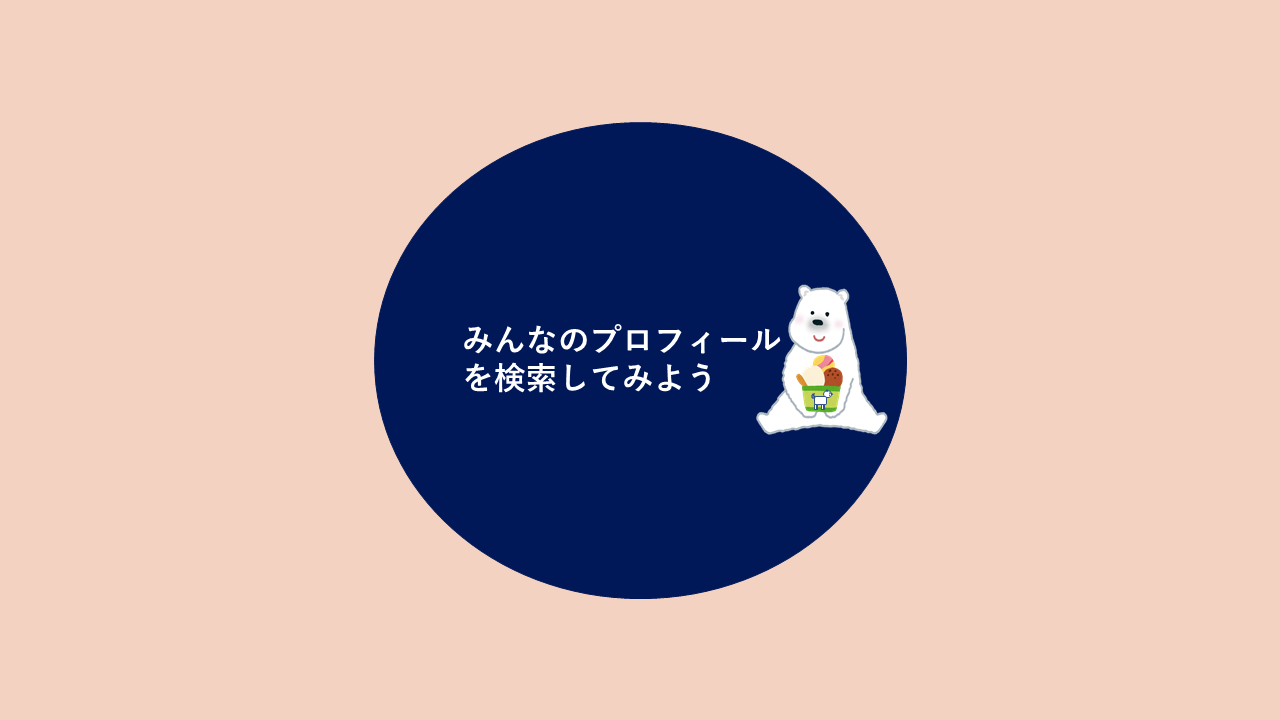
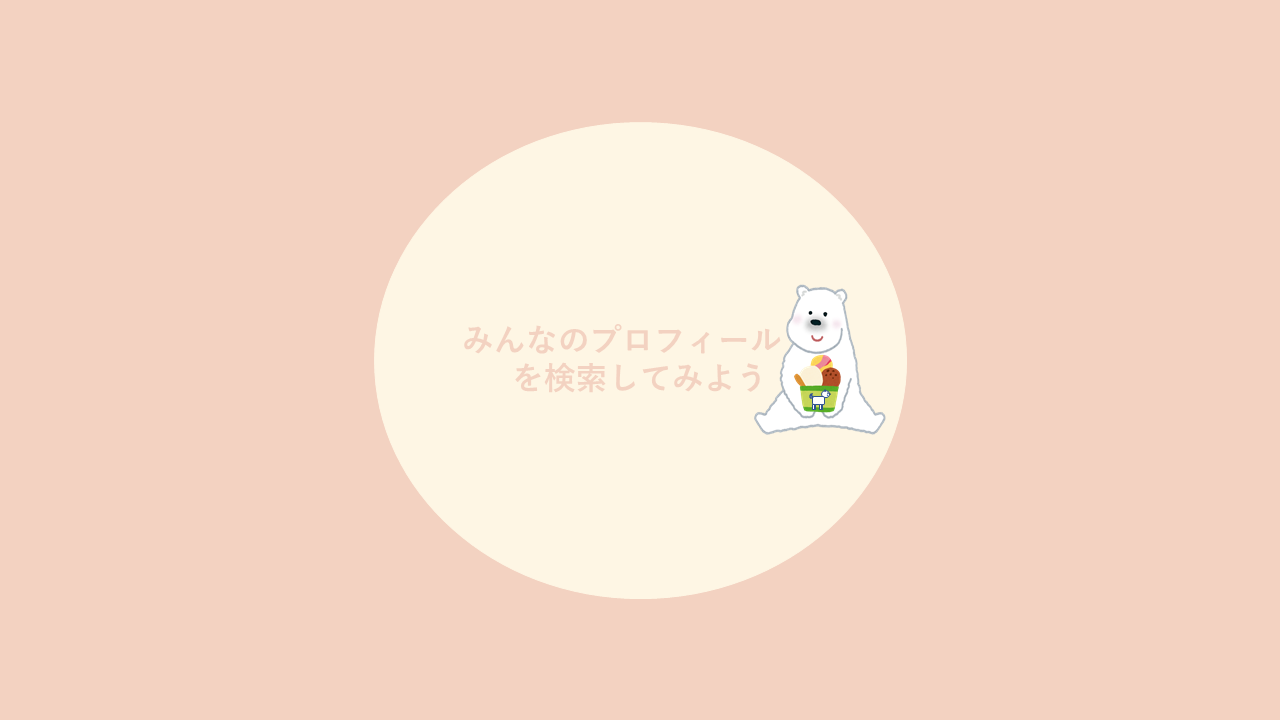
c

Changed region(s): [[0.2812, 0.1528, 0.7188, 0.8556]]

diff --git a/SymPany/WebContent/CSS/Third.css b/SymPany/WebContent/CSS/Third.css
@@ -92,7 +92,22 @@ div.mainchat::-webkit-scrollbar-thumb,div.kingpink::-webkit-scrollbar-thumb {
   background: #001858;
   border-radius: 10px;
 }
-
+/*チャット画面とプロフィール画面の初期画面、画像の調整*/
+div.icon1 {
+	background-color:#f3d2c1;
+	float:center;
+	margin:60px 0 0 150px;
+}
+div.icon2 {
+	background-color:#f3d2c1;
+	float:center;
+	margin:60px 0 0 325px;
+}
+/*アイコン画像の大きさ調整*/
+.icon {
+	height:400px;
+	width:650px;
+}
 /*ここからは違うページの装飾*/
 
 div.kingpink {
